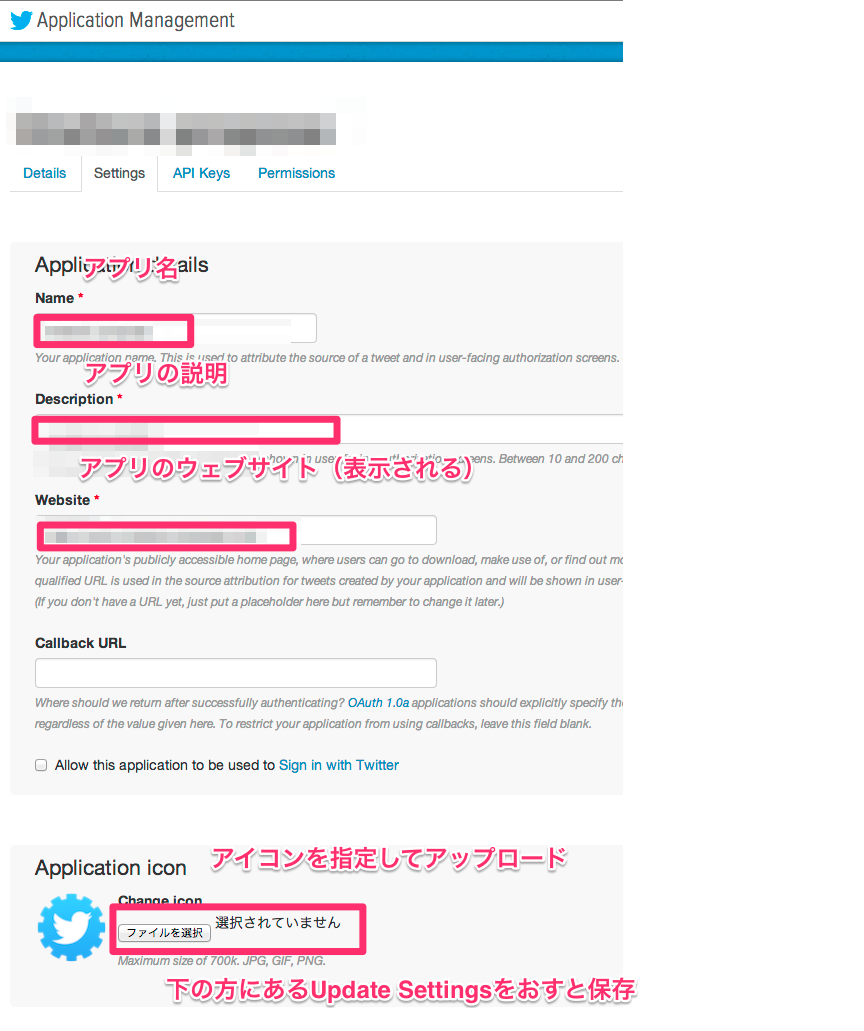
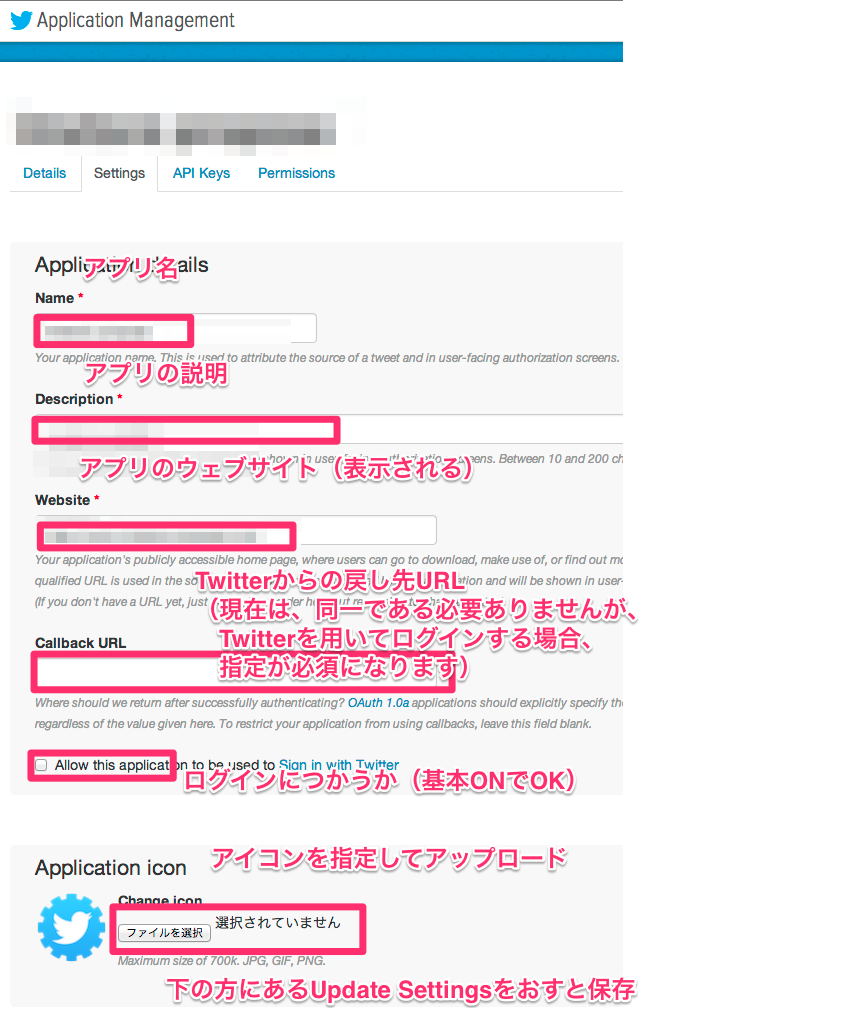
Twitter callback URLの記述を追記

Changed region(s): [[0.0312, 0.5276, 0.75, 0.6828], [0.0312, 0.7139, 0.6875, 0.7759]]

diff --git a/twitter/token.md b/twitter/token.md
@@ -29,6 +29,10 @@
 
 アイコンは保存に失敗することが希にあるので、反映されなければリロード、または何度か保存する。
 
+この画面自体が不安定なことがよくあるので、保存ボタンをおしてしばらくしても変化がないようであれば、リロードして、再度設定をやりなおすこと
+
+callback URLはTwitterでログインさせる場合には必須なので、サイトのドメインなどを入力しておく。本当のcallback先とURLがことなっても（現在の所は）動作します。
+
 ![](twitter-token-desc-settings.png)
 
 ## アプリAPIキー（トークン）確認画面
